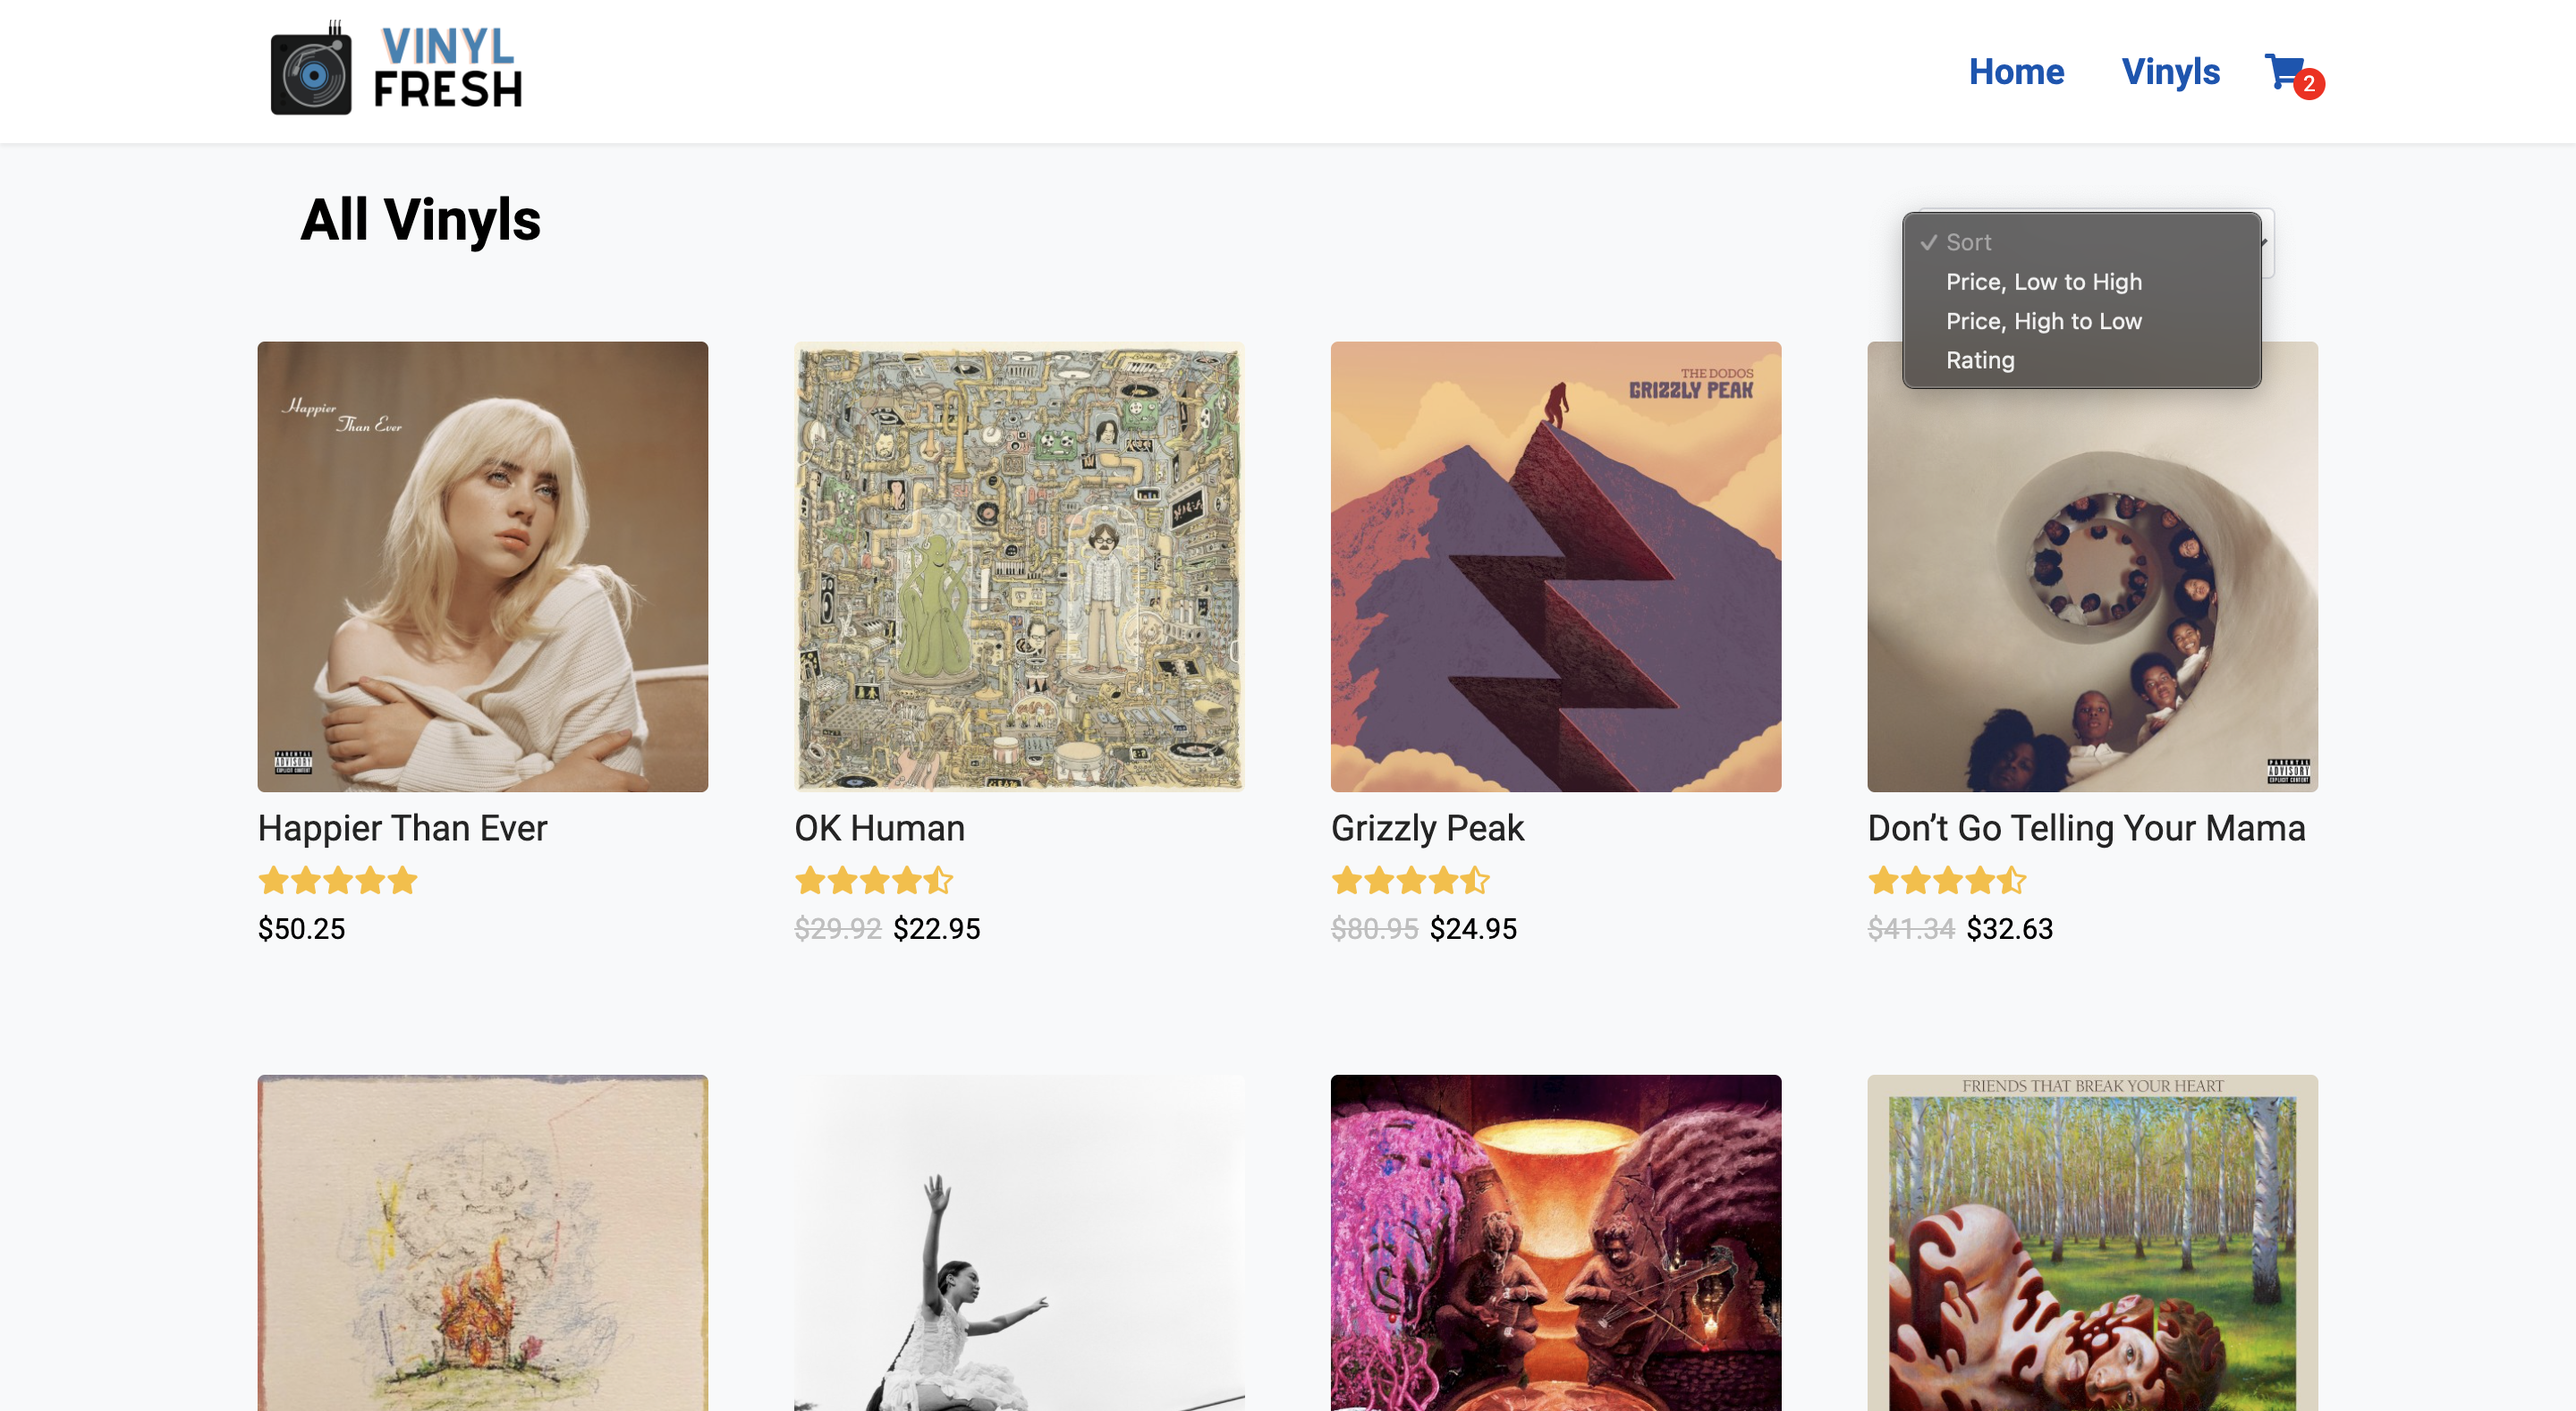
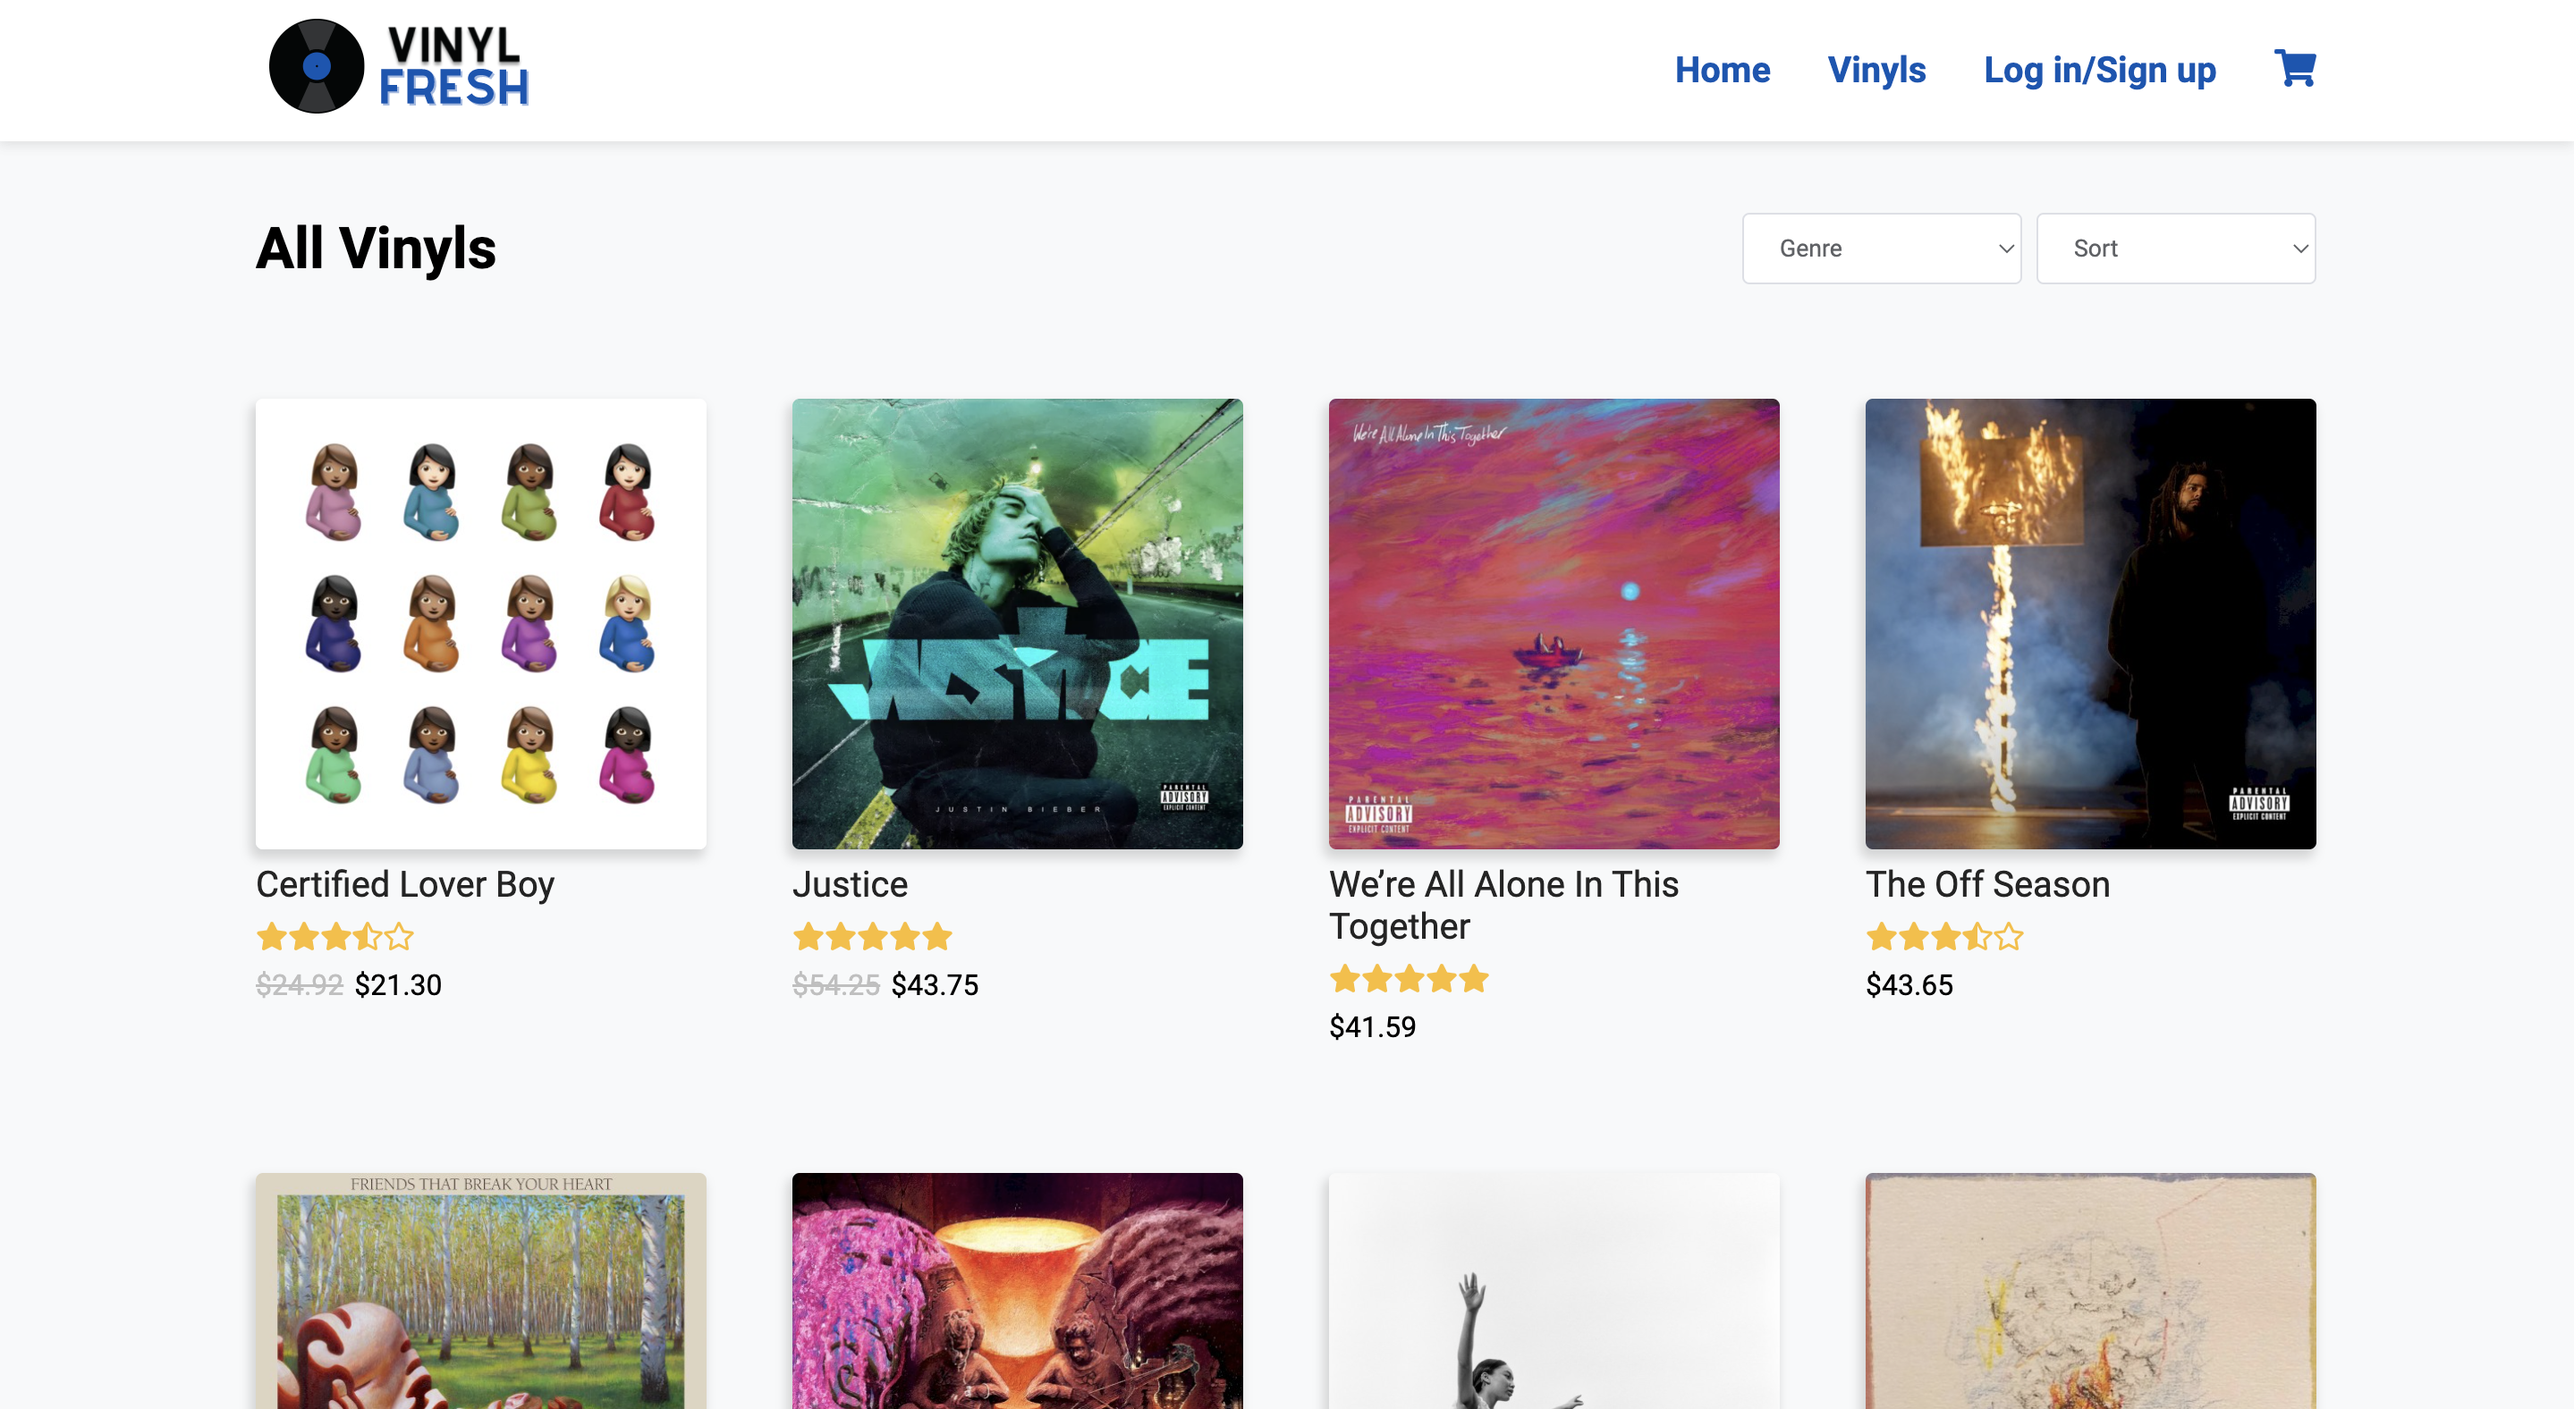
Update README.md

diff --git a/README.md b/README.md
@@ -1,7 +1,7 @@
 # Vinyl Fresh - E-commerce Shop
-Vinyl Fresh is a dynamic e-commerce app where users can browse vinyls based on their favourite album covers. This passion project served as a way for me to learn more about JavaScript, React and Redux, and allowed me to experiment with implementing both these features into something I've built myself.
+Vinyl Fresh is a dynamic e-commerce app where users can browse and "buy" vinyl record covers based on popular album covers. Users can create accounts, manage their cart, checkout with vinyl records, and view their orders scheduled for delivery. This passion project served as a way for me to learn more about React with Redux, Typescript, Firebase, and allowed me to experiment with implementing these features into something I've built myself.
 
-View Live HERE: [Vinyl Shop](https://sharp-murdock-022be0.netlify.app/)
+View Live HERE: [Vinyl Fresh](https://vinyl-fresh.netlify.app/)
 
 
 
@@ -11,14 +11,20 @@ View Live HERE: [Vinyl Shop](https://sharp-murdock-022be0.netlify.app/)
 - JavaScript
 - React.js
 - Redux Toolkit
+- Typescript
+- Firebase Firestore Database
+- Firebase User Authentication
 
 
 ## Description / Features
-- Page layouts and styling built entirely with HTML and CSS
+- Fully responsive page layouts and styling built from scratch with HTML and CSS
 - Use of React hooks
-- Functional sorting by price (low to high / high to low) or rating
-- Recommended vinyls showcases 5-star rated selections
+- Use of Custom Hooks for Input Validation
+- Functional sorting by genre, and price (low to high / high to low) or rating
 - Dynamically updating cart with quantities and price totals using Redux
+- Authorization State that persist on reloads (auto logout after 60 minutes)
+- Cart State that persist on reloads and relogs
+- Static types using Typescript
 - Final app and subsequent edits connected and deployed to Netlify
 
 
@@ -31,12 +37,32 @@ View Live HERE: [Vinyl Shop](https://sharp-murdock-022be0.netlify.app/)
 !['Landing page of website'](https://github.com/JoshuaHaughton/vinyl-shop/blob/main/docs/Landing.png)
 
 
-### Highlights
-!['Highlights of website'](https://github.com/JoshuaHaughton/vinyl-shop/blob/main/docs/Highlights.png)
+### Featured Vinyl Records
+!['Featured Viny Records'](https://github.com/JoshuaHaughton/vinyl-shop/blob/main/docs/Featured-Vinyls.png)
 
 
 ### All Vinyls
 !['List of all available vinyls'](https://github.com/JoshuaHaughton/vinyl-shop/blob/main/docs/All-Vinyls.png)
+
+
+### Vinyl Info
+!['Information of cpecific vinyl cover'](https://github.com/JoshuaHaughton/vinyl-shop/blob/main/docs/Vinyl-Info.png)
+
+
+### Cart
+!['User Cart'](https://github.com/JoshuaHaughton/vinyl-shop/blob/main/docs/Cart.png)
+
+
+### Order Confirmation
+!['Confirmed Order page'](https://github.com/JoshuaHaughton/vinyl-shop/blob/main/docs/Order-Confirmation.png)
+
+
+### Past Orders
+!['Status of past orders from user'](https://github.com/JoshuaHaughton/vinyl-shop/blob/main/docs/My-Orders.png)
+
+
+### Auth Modal
+!['Login / Signup Modal'](https://github.com/JoshuaHaughton/vinyl-shop/blob/main/docs/Auth-Modal.png)
 
 
 
